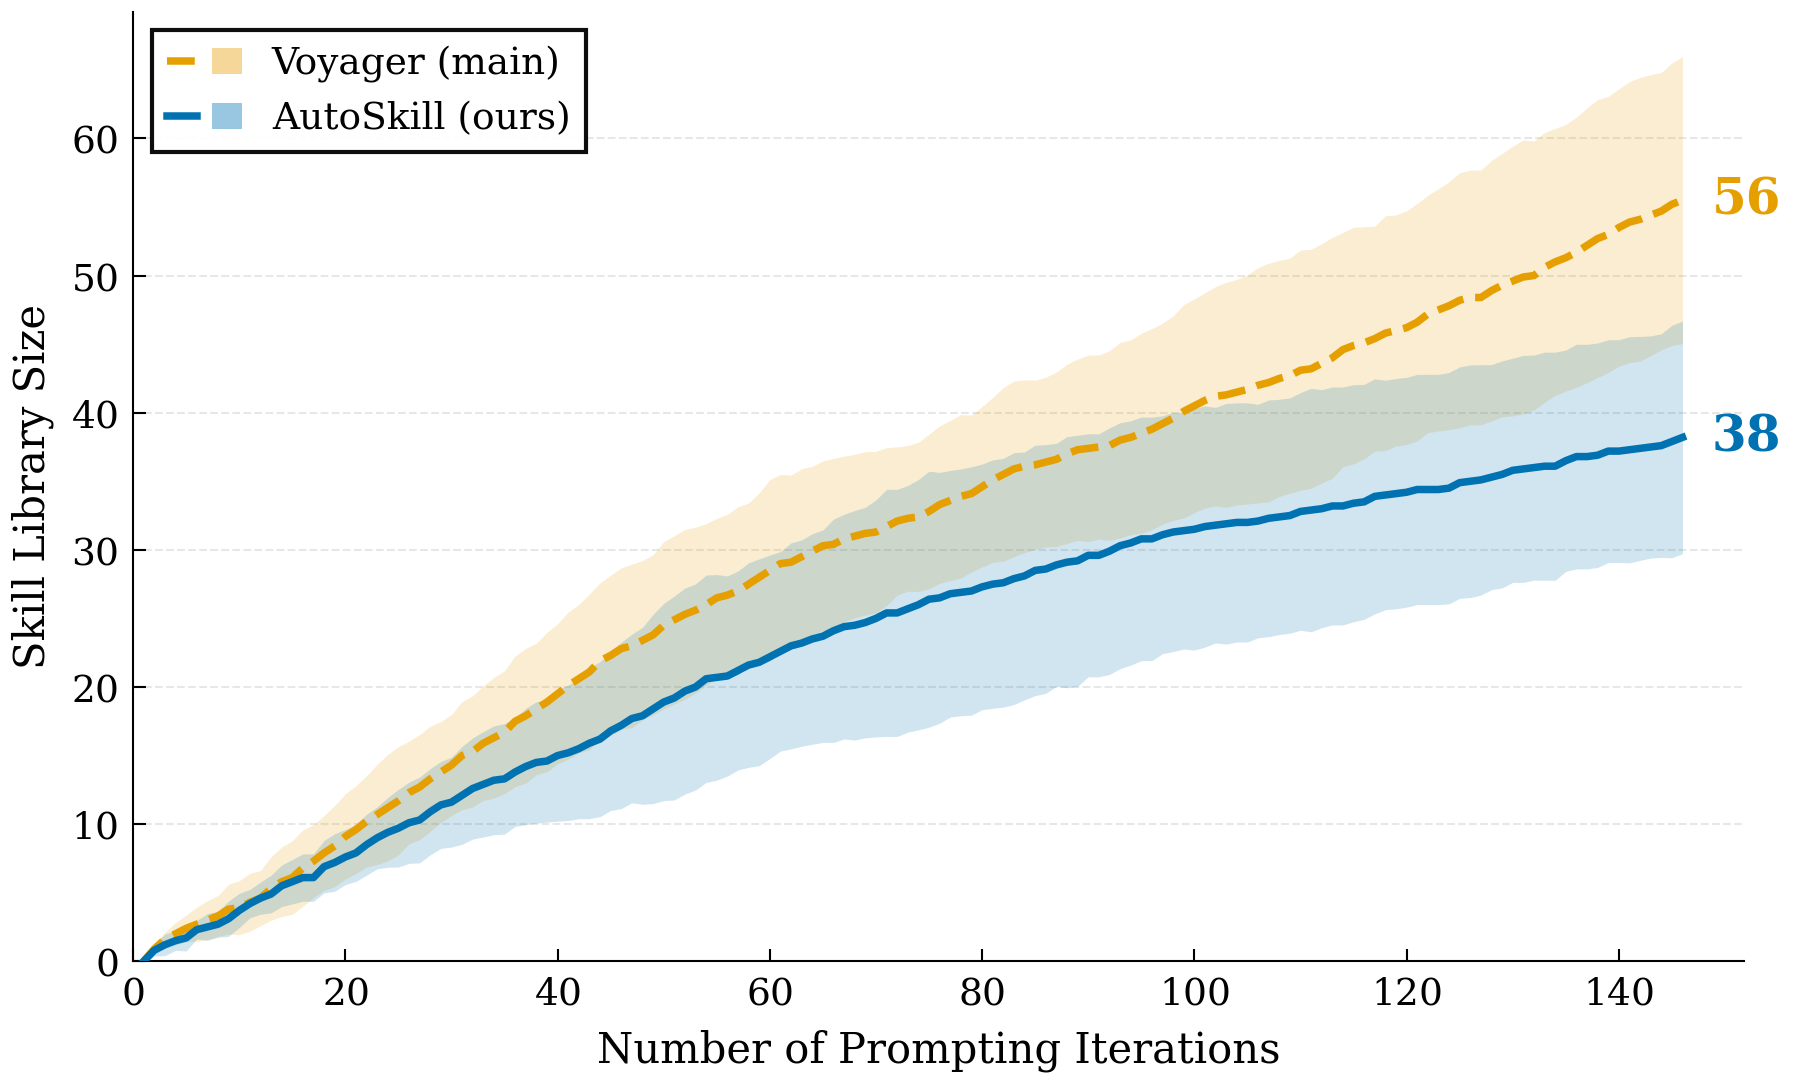
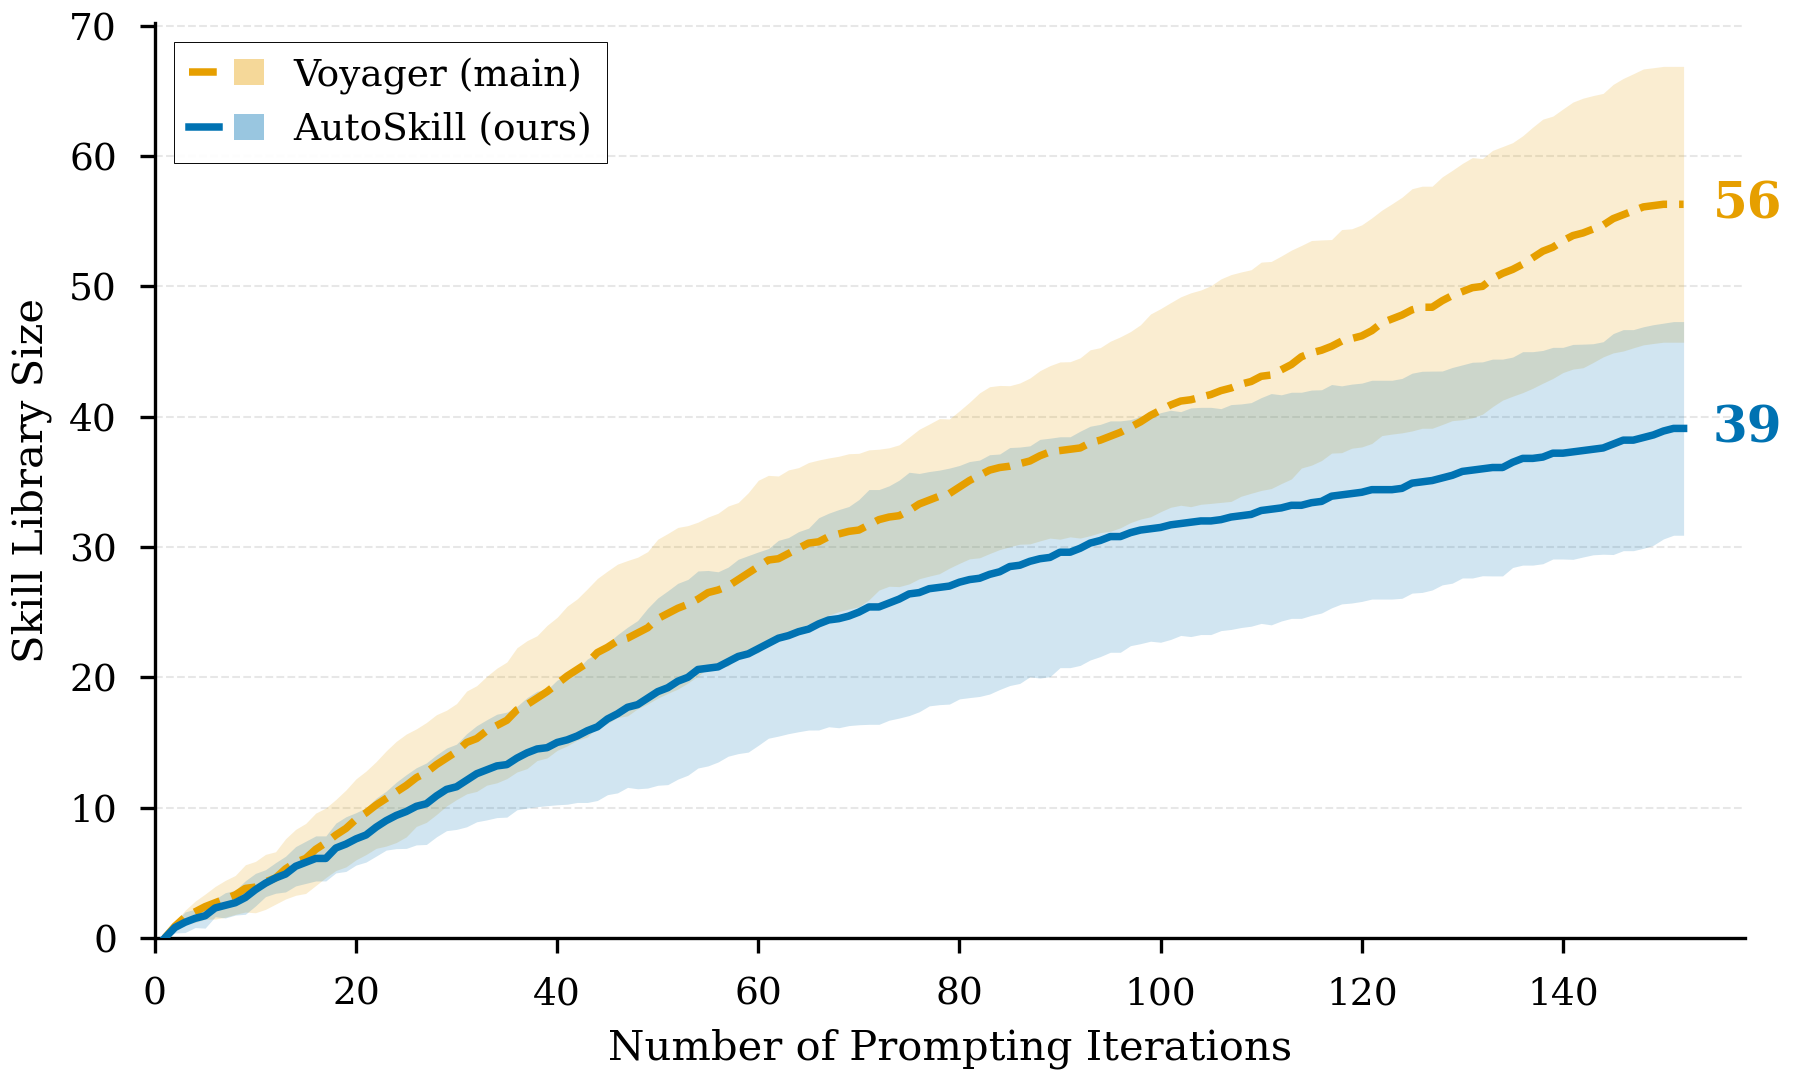
Fix library-size figure: pad shorter runs instead of truncating
Truncating to the shortest run under-reported the final mean (38 vs 39.1).

diff --git a/analysis/plot_dedup_efficiency.py b/analysis/plot_dedup_efficiency.py
@@ -105,8 +105,11 @@ def lib_size_series(run_dir: str) -> np.ndarray:
 
 
 def align_stack(series_list: list[np.ndarray]) -> np.ndarray:
-    min_len = min(len(s) for s in series_list)
-    return np.stack([s[:min_len] for s in series_list], axis=0)
+    # Pad shorter runs with their last value so the final step reflects
+    # every run's final library size (truncation would drop late growth).
+    max_len = max(len(s) for s in series_list)
+    return np.stack([np.pad(s, (0, max_len - len(s)), mode="edge")
+                     for s in series_list], axis=0)
 
 
 # ── Main plot ─────────────────────────────────────────────────────────────────
